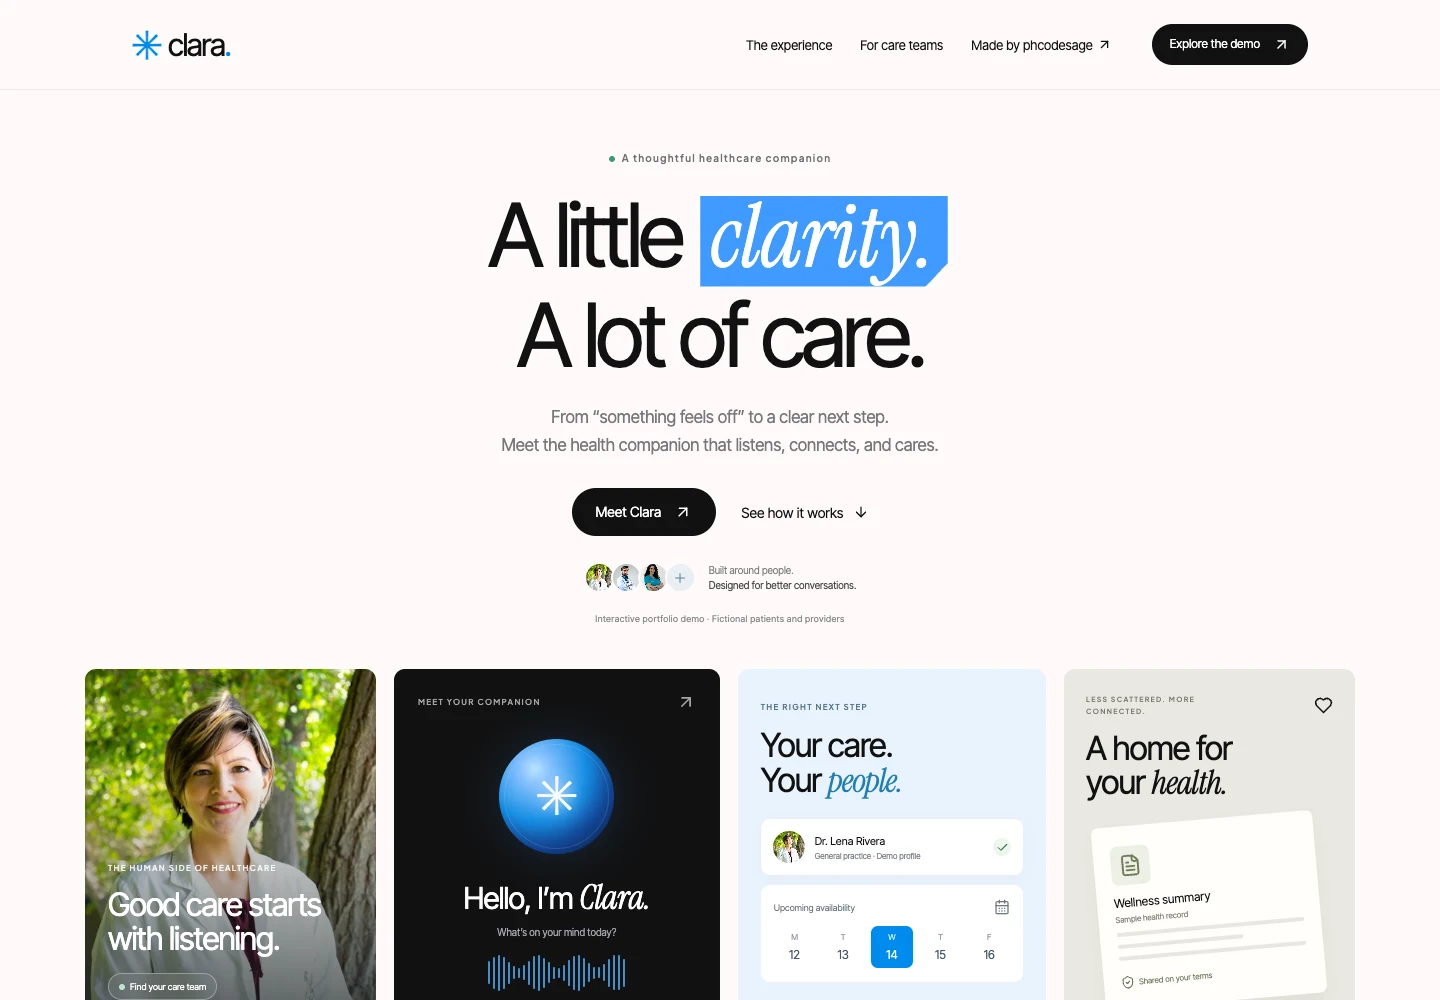
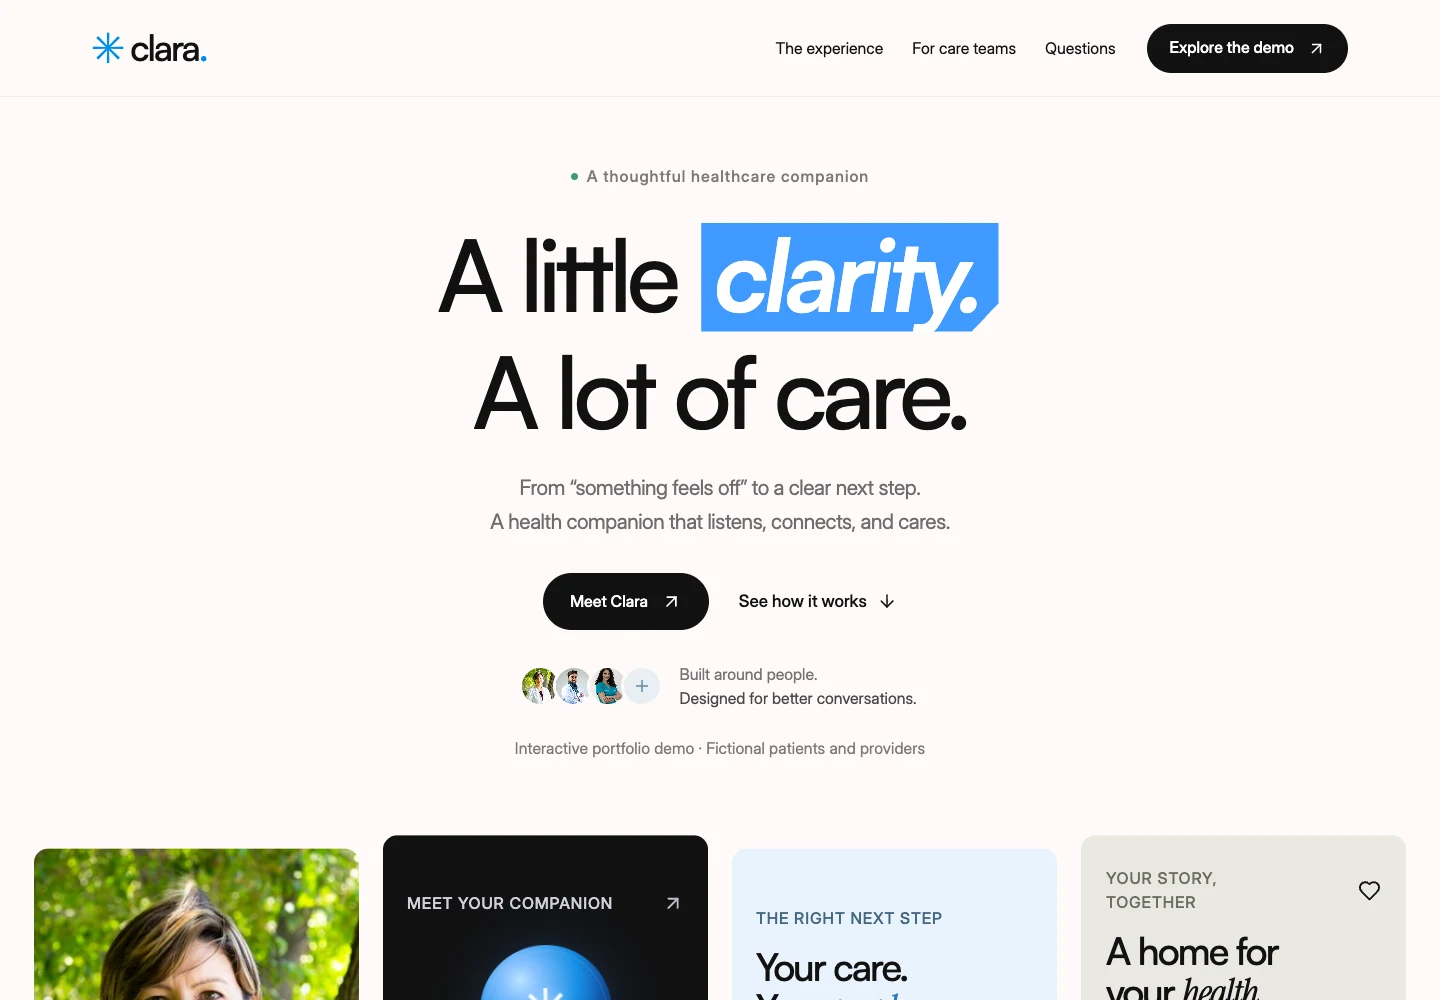
Refresh Clara landing page preview and case study

diff --git a/case-studies/clara-health.html b/case-studies/clara-health.html
@@ -37,10 +37,10 @@
           <aside><p class="eyebrow">The brief</p><h2>Make the journey around care feel connected.</h2></aside>
           <div>
             <div class="panel"><h2>Challenge</h2><p>A healthcare assistant needs more than a chat screen. The experience must connect questions to the right human conversation, handle patient context with permission, and give providers a useful way to review information. The challenge was to make those workflows tangible in a client-ready demo while keeping its limitations clear.</p></div>
-            <div class="panel"><h2>What I built</h2><ul><li>A responsive product website with locally hosted fonts, a patient workspace, and a provider workspace.</li><li>Contextual sample conversations, follow-up questions, informational specialty suggestions, and optional fictional history sharing.</li><li>Browser voice input with a disclosure and transcript review, plus spoken responses on supported browsers.</li><li>Doctor search, specialty and location filters, consultation types, fee sorting, sample booking, cancellation, and duplicate-slot prevention on the same device.</li><li>A simulated appointment queue, sample health-record viewing and downloads, and local document metadata management.</li><li>An editable, template-assisted consultation draft with review status and export. Edits revoke the draft’s reviewed state.</li><li>A server-side DeepSeek integration prepared for a later phase, with request validation, emergency phrase checks, cost-control requirements, and labeled fallback responses.</li></ul></div>
+            <div class="panel"><h2>What I built</h2><ul><li>A responsive product website with locally hosted reference fonts, larger typography, animated section reveals, a patient workspace, and a provider workspace.</li><li>Contextual sample conversations, follow-up questions, informational specialty suggestions, and optional fictional history sharing.</li><li>Browser voice input with a disclosure and transcript review, plus spoken responses on supported browsers.</li><li>Doctor search, specialty and location filters, consultation types, fee sorting, sample booking, cancellation, and duplicate-slot prevention on the same device.</li><li>A simulated appointment queue, sample health-record viewing and downloads, and local document metadata management.</li><li>An editable, template-assisted consultation draft with review status and export. Edits revoke the draft’s reviewed state.</li><li>A server-side DeepSeek integration prepared for a later phase, with request validation, emergency phrase checks, cost-control requirements, and labeled fallback responses.</li></ul></div>
             <div class="panel"><h2>Clear boundaries are part of the product.</h2><p>Clara does not diagnose or prescribe. Conservative emergency phrase rules interrupt ordinary assistant suggestions, and the conversation retains that state until reset. Sharing sample history is optional. The public assistant uses scripted responses; live DeepSeek is disabled.</p><p>There are no real patient accounts, authenticated provider roles, medical document uploads, clinic appointments, or compliance claims. Sample bookings stay in the browser; conversation context and drafts stay in memory. The provider workspace demonstrates a review workflow rather than clinical decision-making.</p></div>
-            <div class="panel"><h2>A visual direction with a human tone.</h2><p>The supplied Framer reference informed the warm whites, bright blue highlights, black pill buttons, serif accents, editorial spacing, and dark provider section. The product language and interactive workflows were created for Clara, with a direct path for prospective clients to contact me.</p></div>
-            <div class="panel"><h2>Validation</h2><p>The safety and API tests cover emergency phrases, explicit denials, persistent escalation, history consent, request validation, and quota enforcement. Browser checks exercise the patient journey, booking persistence and collisions, cancellation, queue simulation, record downloads, editable drafts, reset, navigation, and desktop, tablet, and mobile layouts.</p><p>The automated voice check covers disclosure and fallback behavior. Real microphone capture and speech quality still require testing on supported devices and browsers. These product checks do not constitute clinical validation.</p></div>
+            <div class="panel"><h2>A visual direction with a human tone.</h2><p>The supplied Framer reference informed the warm whites, bright blue highlights, black pill buttons, serif accents, editorial spacing, and dark provider section. Satoshi headings and Inter Display body text match its typography, with locally served fonts and a 16px minimum for landing-page text. A sticky desktop preview changes as you scroll through the patient journey; phone users can tap through the same stages. Smooth navigation, section reveals, an animated voice preview, and a swipeable card gallery support the experience, with reduced-motion preferences respected throughout. The product language and interactive workflows were created for Clara, with a direct path for prospective clients to contact me.</p></div>
+            <div class="panel"><h2>Validation</h2><p>The safety and API tests cover emergency phrases, explicit denials, persistent escalation, history consent, request validation, and quota enforcement. Browser checks exercise the patient journey, booking persistence and collisions, cancellation, queue simulation, record downloads, editable drafts, reset, navigation, and desktop, tablet, and mobile layouts. Landing checks cover font loading, text sizes, scroll behavior, preview transitions, FAQs, mobile controls, direct section links, reduced motion, and layouts from 320px to 1440px.</p><p>The automated voice check covers disclosure and fallback behavior. Real microphone capture and speech quality still require testing on supported devices and browsers. These product checks do not constitute clinical validation.</p></div>
             <div class="panel"><h2>Where the prototype leads.</h2><p>A production engagement would separately scope native mobile clients, secure authentication, enforced roles, transactional scheduling, encrypted record storage, audit trails, clinician-reviewed knowledge sources, voice infrastructure, notifications, and privacy requirements. Clara gives a client a concrete way to discuss that scope.</p><p><a href="https://clara-health.pages.dev/#/app/assistant" target="_blank" rel="noreferrer">Try a sample patient conversation ↗</a></p></div>
           </div>
         </section>

diff --git a/assets/projects/README.md b/assets/projects/README.md
@@ -3,7 +3,7 @@
 Screenshots captured at 1440 × 1000, then encoded as WebP. The original set was captured on 2026-10-08; later capture dates are noted below. These are interface captures, not generated mockups.
 
 - `tawaflick.webp`: https://tawaflick.pages.dev/ — captured on 2026-10-11, showing the live library before the first curated upload.
-- `clara-health.webp`: https://clara-health.pages.dev/ — captured on 2026-10-12, showing the public healthcare prototype. All product data is fictional; DeepSeek is disabled.
+- `clara-health.webp`: https://clara-health.pages.dev/ — captured on 2026-10-12, showing the completed landing page with Satoshi and Inter Display typography. All product data is fictional; DeepSeek is disabled.
 - `bugnaw.webp`: https://bugnaw.lovable.app/
 - `unban-discord.webp`: https://unban-discord-now.pages.dev/
 - `sage-cinema.webp`: https://sage-cinema-nu.vercel.app/ (necessary storage only)
